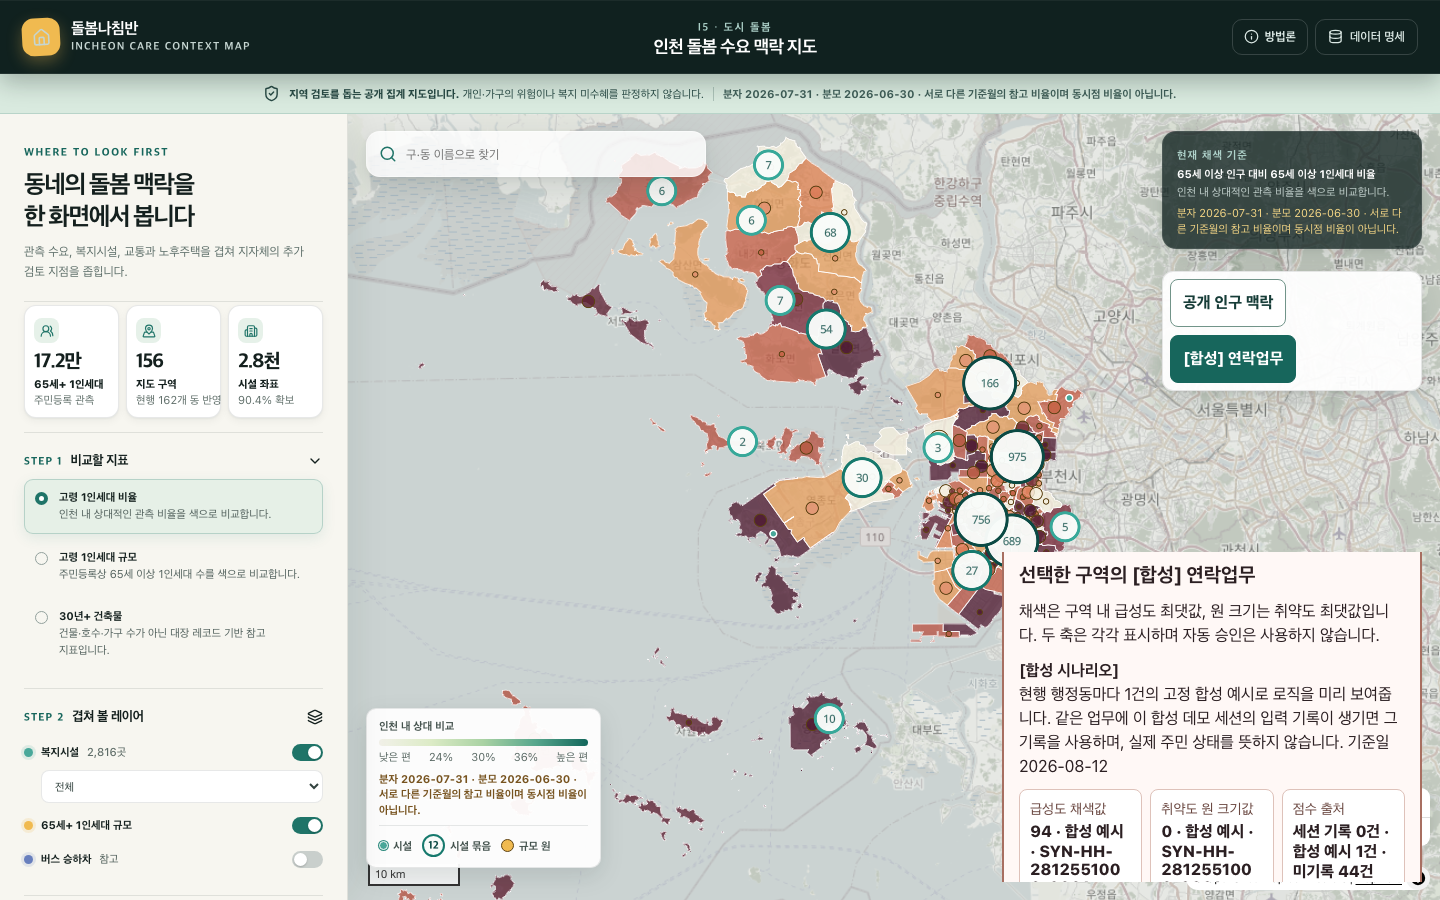
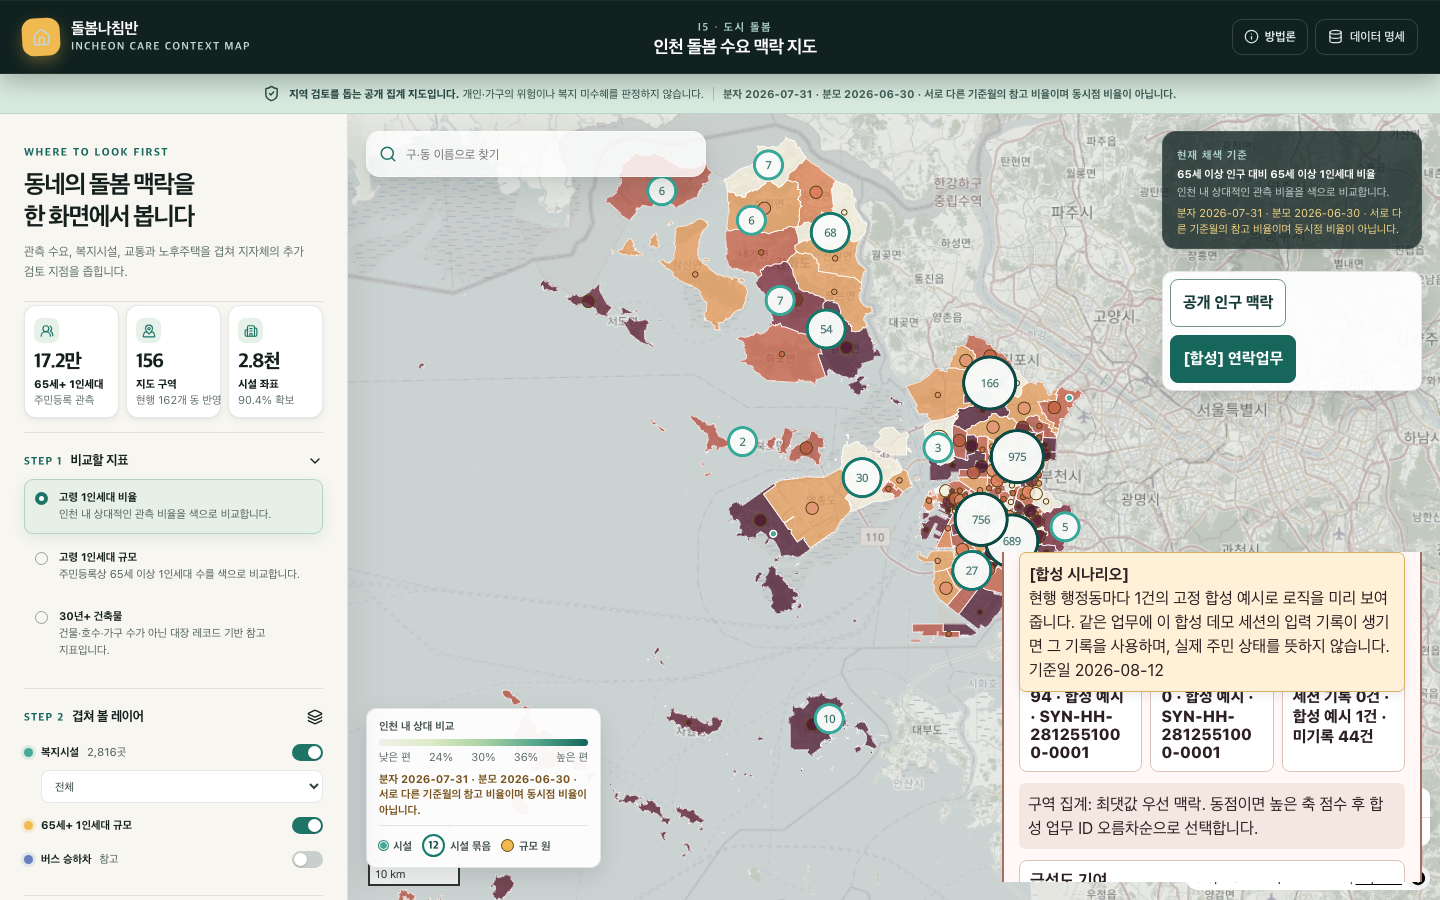
fix: keep scenario evidence visible

Changed region(s): [[0.6875, 0.5911, 1.0, 0.9956]]

diff --git a/src/styles.css b/src/styles.css
@@ -321,6 +321,7 @@ select:focus-visible,
 .structural-indicator .mixed-snapshot-note { margin: 0; }
 .zone-operations-panel { display: grid; gap: 11px; margin-top: 10px; padding: 15px; color: #2b1f22; background: #fff8f6; border: 2px solid #a86f61; border-radius: 10px; }
 .zone-operations-panel h3, .zone-operations-panel h4, .zone-operations-panel p { margin: 0; }.zone-operations-panel h3 { font-size: 20px; }.zone-operations-panel p { font-size: 16px; line-height: 1.5; }
+.public-zone-operations .zone-scenario-note { position: sticky; z-index: 1; top: 0; padding: 9px; background: #fff1d7; border: 1px solid #d8b064; border-radius: 7px; box-shadow: 0 4px 10px rgba(43,31,34,.08); }
 .zone-operation-metrics { display: grid; grid-template-columns: repeat(3, minmax(0, 1fr)); gap: 8px; margin: 0; }.zone-operation-metrics div, .zone-contributions { padding: 10px; background: #fff; border: 1px solid #dec2ba; border-radius: 8px; }.zone-operation-metrics dt { color: #6a4740; font-size: 14px; }.zone-operation-metrics dd { margin: 4px 0 0; font-size: 16px; font-weight: 800; overflow-wrap: anywhere; }
 .zone-aggregation { padding: 9px; background: #f4e7e2; border-radius: 7px; }.zone-contributions h4 { margin: 0 0 8px; font-size: 17px; }.zone-contributions ul { display: grid; gap: 6px; margin: 0; padding: 0; list-style: none; }.zone-contributions li { display: flex; justify-content: space-between; gap: 8px; font-size: 15px; }.zone-contributions strong { white-space: nowrap; }.public-zone-operations { position: absolute; z-index: 9; right: 18px; bottom: 18px; width: min(420px, calc(100% - 36px)); max-height: 42%; overflow: auto; }
 
